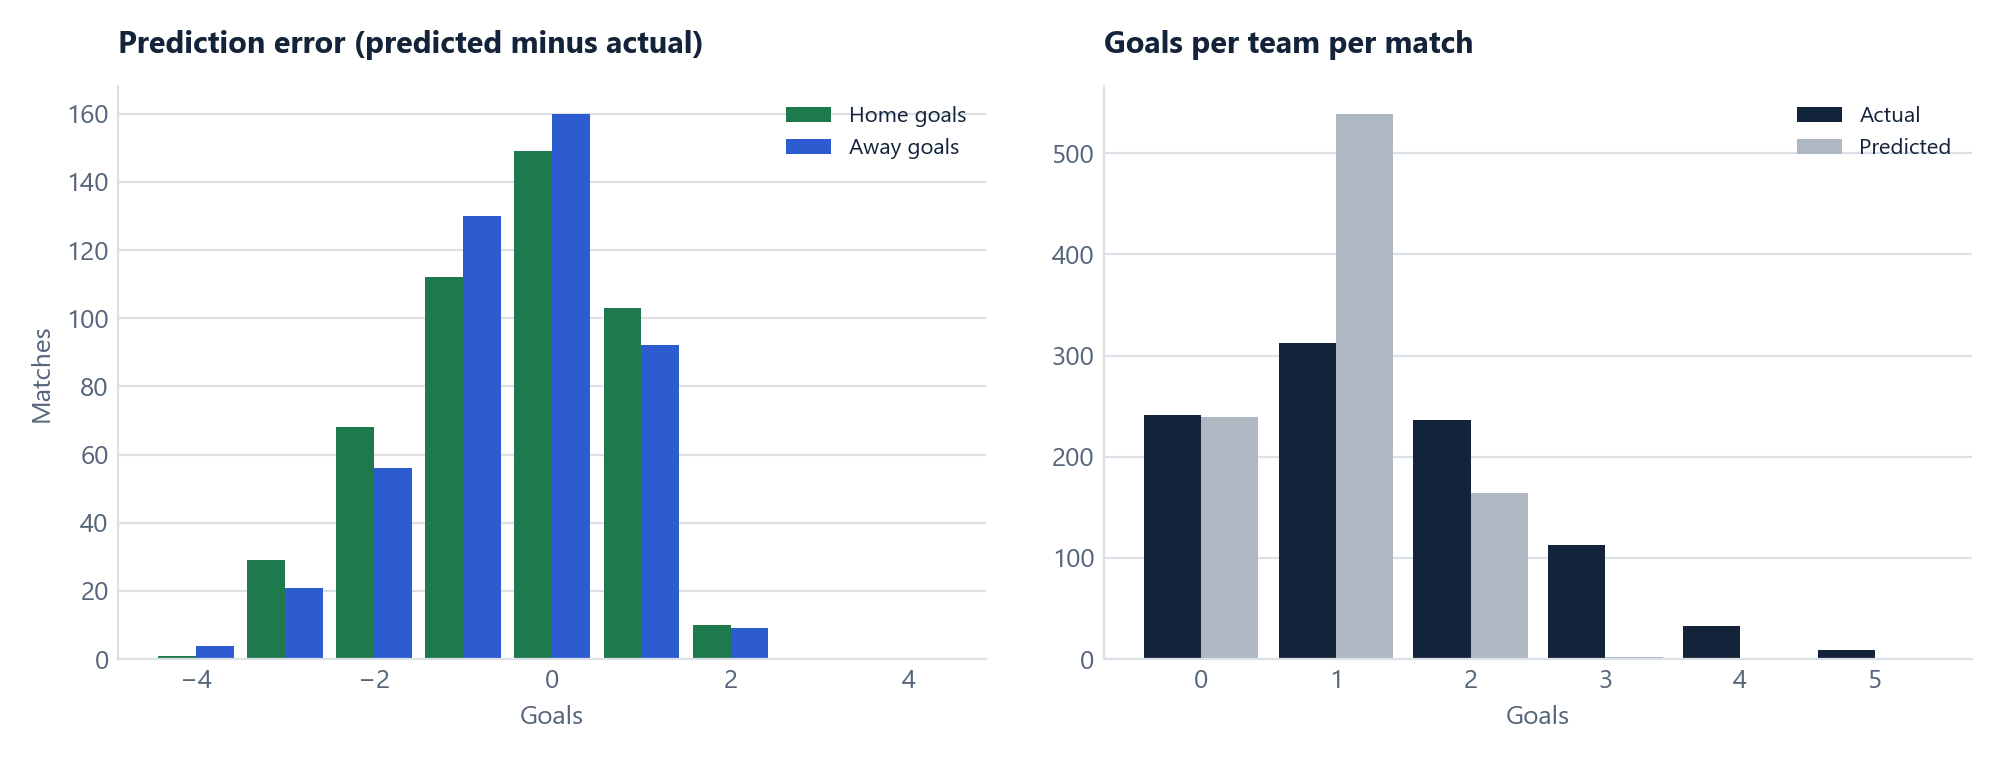
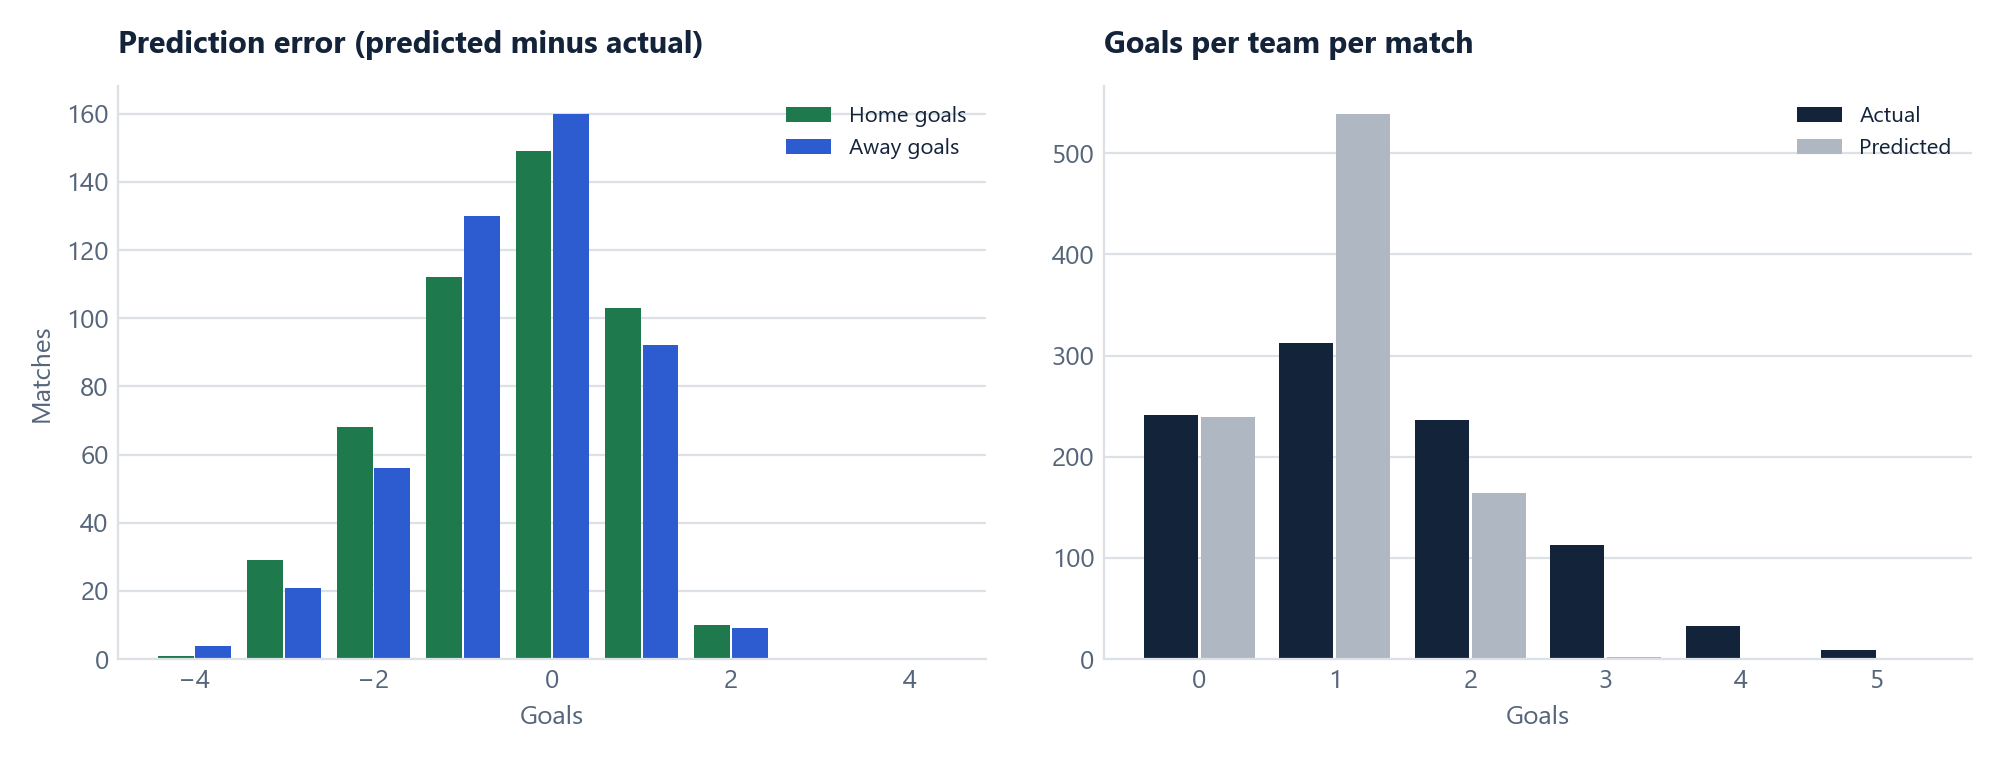
chore(data): export held-out evaluation summaries for native charts
export_web_data.py rerun: adds benchmark.evaluation (472 test matches).
Forecasts, standings and model metrics are unchanged; the goal error
PNG is redrawn from the shared summary helpers.

Changed region(s): [[0.5887, 0.8776, 0.6197, 0.9079]]

diff --git a/data/predictions_2026_2027.md b/data/predictions_2026_2027.md
@@ -1,6 +1,6 @@
 # Premier League 2026/2027 Season Match Predictions
 
-Generated on: 2026-10-07 14:31:33
+Generated on: 2026-10-07 16:12:43
 Primary Prediction Engine: **Stacked**
 
 ## Model Performance Benchmark Summary
